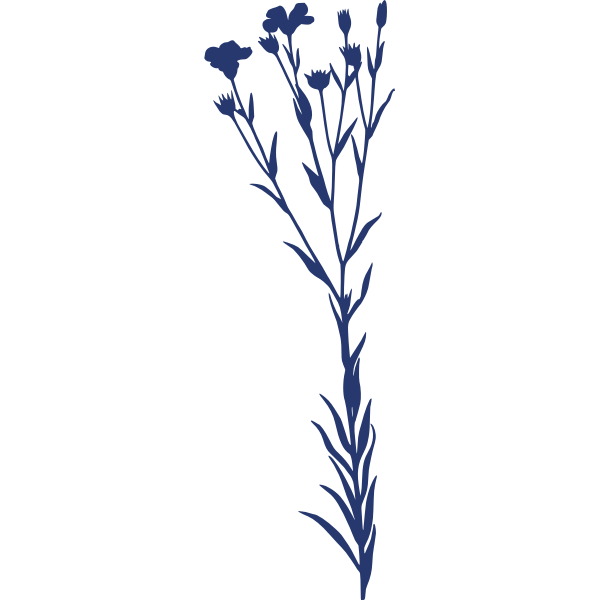
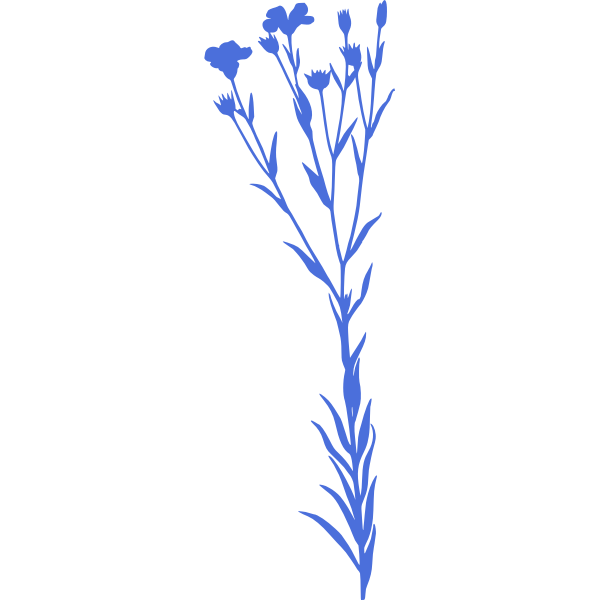
Created the homepage skeleton

Changed region(s): [[0.33, 0.0, 0.66, 1.0], [0.51, 0.84, 0.54, 0.87]]

diff --git a/PersonalLibraryApp/ClientApp/src/components/individual-components/intro/intro.css b/PersonalLibraryApp/ClientApp/src/components/individual-components/intro/intro.css
@@ -16,14 +16,14 @@
   color: white;
 }
 
-.homePage{
+.introPage{
   display: flex;
   flex-direction: column;
   justify-content: center;
   align-items: center;
 }
 
-.homePageInner {
+.introPageInner {
   position: relative;
   margin: 2rem;
   padding: 2.5rem;
@@ -31,10 +31,10 @@
   font-size: 1rem;
   border: 0.25rem solid black;
 }
-.homePageInner::-webkit-scrollbar {
+.introPageInner::-webkit-scrollbar {
   width: 0.5rem;
 }
-.homePageInner::-webkit-scrollbar-thumb {
+.introPageInner::-webkit-scrollbar-thumb {
   border: 0.25rem solid #000;
 }
 
@@ -47,7 +47,7 @@
 }
 
 .flower:hover {
-  content: url(../../assets/images/flower/blue_Flower.png);
+  content: url(../../../assets/images/flower/blue_Flower.png);
 }
 
 .excerpt {
@@ -57,9 +57,9 @@
   background: white;
 }
 
-.homePageInner h1,
-.homePageInner h2,
-.homePageInner h3 {
+.introPageInner h1,
+.introPageInner h2,
+.introPageInner h3 {
   font-weight: 400;
   text-align: center;
   color: var(--main-blue)
@@ -81,7 +81,7 @@
     color: var(--main-blue)
 }
 
-.homePageInner h2 {
+.introPageInner h2 {
   margin-top: 1rem;
   font-size: 1.25rem;
   line-height: 2rem;
@@ -89,7 +89,7 @@
     color: var(--main-blue)
 }
 
-.homePageInner h3 {
+.introPageInner h3 {
   width: 15rem;
   margin: 3rem 0 6rem 0;
   padding: 0.5rem;
@@ -102,26 +102,26 @@
     color: var(--main-blue)
 }
 
-.homePageInner p {
+.introPageInner p {
   text-align: justify;
   margin: 1rem 0;
   line-height: 1.5rem;
 
 }
-.homePageInner p:first-of-type:first-letter {
+.introPageInner p:first-of-type:first-letter {
   padding: 0.25rem;
   margin: -1rem 0.25rem -0.25rem 0;
   font-family: "Fleur De Leah", cursive;
   font-size: 3rem;
 }
-.homePageInner p:first-of-type {
+.introPageInner p:first-of-type {
   font-size: 1.25rem;
   line-height: 2rem;
   font-style: italic;
   margin-bottom: 2rem;
 }
 
-.homePageInner p:hover {
+.introPageInner p:hover {
   color: var(--main-blue);
 }
 

diff --git a/PersonalLibraryApp/ClientApp/src/components/individual-components/login/login.jsx b/PersonalLibraryApp/ClientApp/src/components/individual-components/login/login.jsx
@@ -1,7 +1,7 @@
 import React, {useEffect, useRef} from 'react';
-import fb from './../../assets/svg/fb.svg';
-import linkedin from './../../assets/svg/linkedin.svg';
-import twitter from './../../assets/svg/twitter.svg';
+import fb from '../../../assets/svg/fb.svg';
+import linkedin from '../../../assets/svg/linkedin.svg';
+import twitter from '../../../assets/svg/twitter.svg';
 import './login.css';
 
 const Login = () => {
@@ -46,7 +46,7 @@ const Login = () => {
       <div className="login">
         <div className="main">
           <div className="container a-container" ref={aContainer}>
-            <form className="form" id="a-form" method="" action="">
+            <form className="form" id="a-form" method="" action="src/components/individual-components/login">
               <h2 className="form_title title">Create Account</h2>
               <div className="form__icons">
                 <img className="form__icon" src={fb} alt="Facebook_Logo"/>
@@ -62,7 +62,7 @@ const Login = () => {
             </form>
           </div>
           <div className="container b-container" ref={bContainer}>
-            <form className="form" id="b-form" method="" action="">
+            <form className="form" id="b-form" method="" action="src/components/individual-components/login">
               <h2 className="form_title title">Sign in to Website</h2>
               <div className="form__icons">
                 <img className="form__icon" src={fb} alt="Facebook_Logo"/>

diff --git a/PersonalLibraryApp/ClientApp/src/pages/home-page/Homepage.css b/PersonalLibraryApp/ClientApp/src/pages/home-page/Homepage.css
@@ -1,0 +1,65 @@
+.homePageInner {
+    display: grid;
+    grid-template-columns: 20vw 50vw 20vw;
+    grid-template-rows: 40vh 25vh 40vh;
+    row-gap: 25px;
+    column-gap: 50px;
+    grid-template-areas:
+"topLeft topMiddle topRight"
+"botLeft botMiddle botRight";
+    justify-content: center;
+    align-content: center;
+}
+
+.topMiddle {
+    grid-area: topMiddle;
+    width: 50vw;
+    height: 25vh;
+}
+
+.botMiddle {
+    grid-area: botMiddle;
+    width: 50vw;
+    height: 75vh;
+}
+
+
+.topLeft {
+    grid-area: topLeft;
+    width: 20vw;
+    height: 40vh;
+    position: fixed;
+    z-index: 1;
+    top: 50px;
+    left: 0;
+}
+
+.botLeft {
+    grid-area: botLeft;
+    width: 20vw;
+    height: 40vh;
+    position: fixed;
+    z-index: 1;
+    bottom: 0;
+    left: 0;
+}
+
+.topRight {
+    grid-area: topRight;
+    width: 20vw;
+    height: 40vh;
+    position: fixed;
+    z-index: 1;
+    top: 50px;
+    right: 0;
+}
+
+.botRight {
+    grid-area: botRight;
+    width: 20vw;
+    height: 40vh;
+    position: fixed;
+    z-index: 1;
+    bottom: 0;
+    right: 0;
+}

diff --git a/PersonalLibraryApp/ClientApp/src/pages/home-page/Homepage.js b/PersonalLibraryApp/ClientApp/src/pages/home-page/Homepage.js
@@ -1,0 +1,33 @@
+import React from 'react';
+import './Homepage.css';
+import NavMenu from '../../components/individual-components/nav/NavMenu';
+import BotRight
+  from '../../components/homepage-components/BottomRightSide/BottomRight';
+import TopRight
+  from '../../components/homepage-components/TopRIghtSide/TopRight';
+import BotMiddle
+  from '../../components/homepage-components/BottomMiddle/BottomMiddle';
+import TopMiddle
+  from '../../components/homepage-components/TopMiddle/TopMiddle';
+import BotLeft
+  from '../../components/homepage-components/BottomLeftSide/BotLeft';
+import TopLeft from '../../components/homepage-components/TopLeftSide/TopLeft';
+
+const Homepage = () => {
+  return (
+      <div className="homePageOuter">
+        <NavMenu/>
+
+        <div className="homePageInner">
+          <TopLeft/>
+          <BotLeft/>
+          <TopMiddle/>
+          <BotMiddle/>
+          <TopRight/>
+          <BotRight/>
+        </div>
+      </div>
+  );
+};
+
+export default Homepage;

diff --git a/PersonalLibraryApp/ClientApp/src/components/individual-components/intro/intro.jsx b/PersonalLibraryApp/ClientApp/src/components/individual-components/intro/intro.jsx
@@ -1,12 +1,12 @@
 import React from 'react';
 import './intro.css';
-import blueFlower from './../../assets/images/flower/blue_Flower.png'
-import blackFlower from '../../assets/images/flower/black_Flower.png'
+import blueFlower from '../../../assets/images/flower/blue_Flower.png'
+import blackFlower from '../../../assets/images/flower/black_Flower.png'
 
 const Intro = () => {
   return (
-      <div className='homePage'>
-        <div className="homePageInner">
+      <div className='introPage'>
+        <div className="introPageInner">
           <div className="excerpt">
             <div className="title__container">
               <h1 className="title__first">Personal</h1>

diff --git a/PersonalLibraryApp/ClientApp/src/AppRoutes.js b/PersonalLibraryApp/ClientApp/src/AppRoutes.js
@@ -1,11 +1,11 @@
 import LoginPage from './../src/pages/login-page/LoginPage';
 import IntroPage from './pages/intro-page/intro';
-import HomePage from './pages/home-page/home'
+import Homepage from './pages/home-page/Homepage'
 
 const AppRoutes = [
     {
         index: true,
-        element: <HomePage/>
+        element: <Homepage/>
     },
     {
         path: '/login',

diff --git a/PersonalLibraryApp/ClientApp/src/pages/login-page/LoginPage.js b/PersonalLibraryApp/ClientApp/src/pages/login-page/LoginPage.js
@@ -1,6 +1,6 @@
 import React from 'react';
-import Login from '../../components/login/login';
-import NavMenu from '../../components/nav/NavMenu';
+import Login from '../../components/individual-components/login/login';
+import NavMenu from '../../components/individual-components/nav/NavMenu';
 import './loginPage.css'
 
 const LoginPage = () => {

diff --git a/PersonalLibraryApp/ClientApp/src/components/individual-components/nav/NavMenu.js b/PersonalLibraryApp/ClientApp/src/components/individual-components/nav/NavMenu.js
@@ -1,7 +1,7 @@
 import React from 'react';
 import {Link} from 'react-router-dom';
 import './NavMenu.css';
-import WhiteLogo from '../../assets/images/logo/white_logo.png';
+import WhiteLogo from '../../../assets/images/logo/white_logo.png';
 import NiceSearch from '../nice-search/NiceSearch';
 import { useNavigate } from 'react-router-dom';
 

diff --git a/PersonalLibraryApp/ClientApp/src/pages/intro-page/intro.js b/PersonalLibraryApp/ClientApp/src/pages/intro-page/intro.js
@@ -1,6 +1,6 @@
 import React from 'react';
-import Intro from "../../components/intro/intro"
-import NavMenu from "../../components/nav/NavMenu"
+import Intro from "../../components/individual-components/intro/intro"
+import NavMenu from "../../components/individual-components/nav/NavMenu"
 
 const IntroPage = () => {
   return (

diff --git a/PersonalLibraryApp/ClientApp/src/App.js b/PersonalLibraryApp/ClientApp/src/App.js
@@ -2,7 +2,7 @@ import React from 'react';
 import {Route, Routes} from 'react-router-dom';
 import AppRoutes from './AppRoutes';
 import './custom.css';
-import NavMenu from './components/nav/NavMenu';
+import NavMenu from './components/individual-components/nav/NavMenu';
 
 const App = () => {
   return (

diff --git a/PersonalLibraryApp/ClientApp/src/components/individual-components/nav/NavMenu.css b/PersonalLibraryApp/ClientApp/src/components/individual-components/nav/NavMenu.css
@@ -1,4 +1,5 @@
 .header {
+
     display: flex;
     align-items: center;
     height: 50px;
@@ -7,7 +8,7 @@
     font-weight: 600;
     font-size: 15px;
     border-bottom: 1px solid #333;
-    position: sticky;
+    position: fixed;
     top: 0;
     left: 0;
     z-index: 999;

diff --git a/PersonalLibraryApp/ClientApp/src/components/homepage-components/TopMiddle/TopMiddle.jsx b/PersonalLibraryApp/ClientApp/src/components/homepage-components/TopMiddle/TopMiddle.jsx
@@ -1,0 +1,14 @@
+import React from 'react';
+import './TopMiddle.css'
+
+const TopMiddle = () => {
+  return (
+      <div className='topMiddle'>
+
+                  <h1>TopMiddle</h1>
+
+      </div>
+  );
+};
+
+export default TopMiddle;
